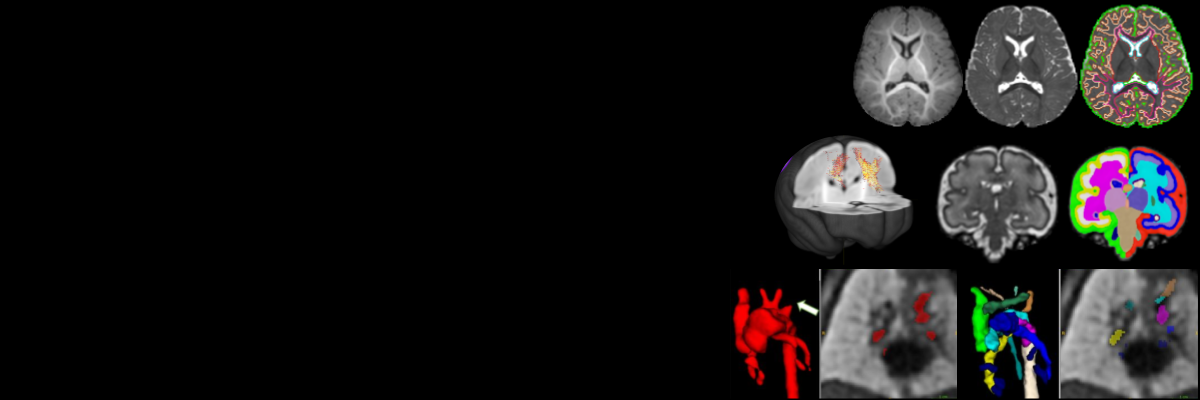
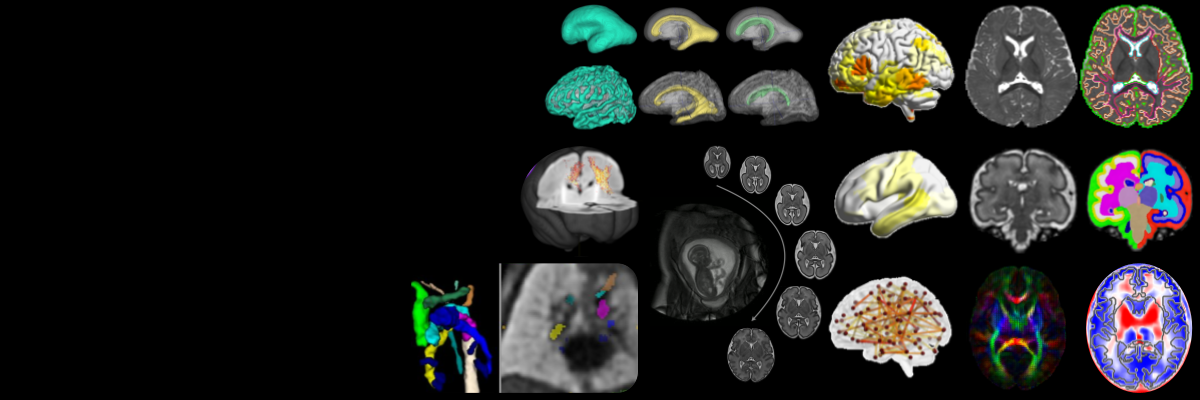
changed the main picture

diff --git a/index.html b/index.html
@@ -77,9 +77,9 @@ elem.css("backgroundImage", bgimg)
 </nav>
 
 <!-- Header with full-height image -->
-<div class="w3-container w3-row w3-center w3-black w3-padding-32"></div>
+<div class="w3-container w3-row w3-center w3-black w3-padding-16"></div>
 <div class="bgimg-1 w3-display-container w3-grayscale-min" id="home">
-  <div class="w3-display-left w3-text-white" style="padding:48px">
+  <div class="w3-display-left w3-text-white" style="padding:32px">
     <span class="w3-jumbo w3-hide-small">
       <img src="imgs/viz/Baby-Logo.png" height="100" alt="babymedia icon" />Welcome to Baby-MedIA@KCL
     </span>

diff --git a/style/styles.css b/style/styles.css
@@ -42,7 +42,7 @@ body, html {
   background-repeat:no-repeat;
   background-size:contain;
   background-color:#000;
-  background-image: url("../imgs/viz/website-main-pic.png");
+  background-image: url("../imgs/viz/website-main-pic-3.png");
   min-height: 100%;
 }
 
